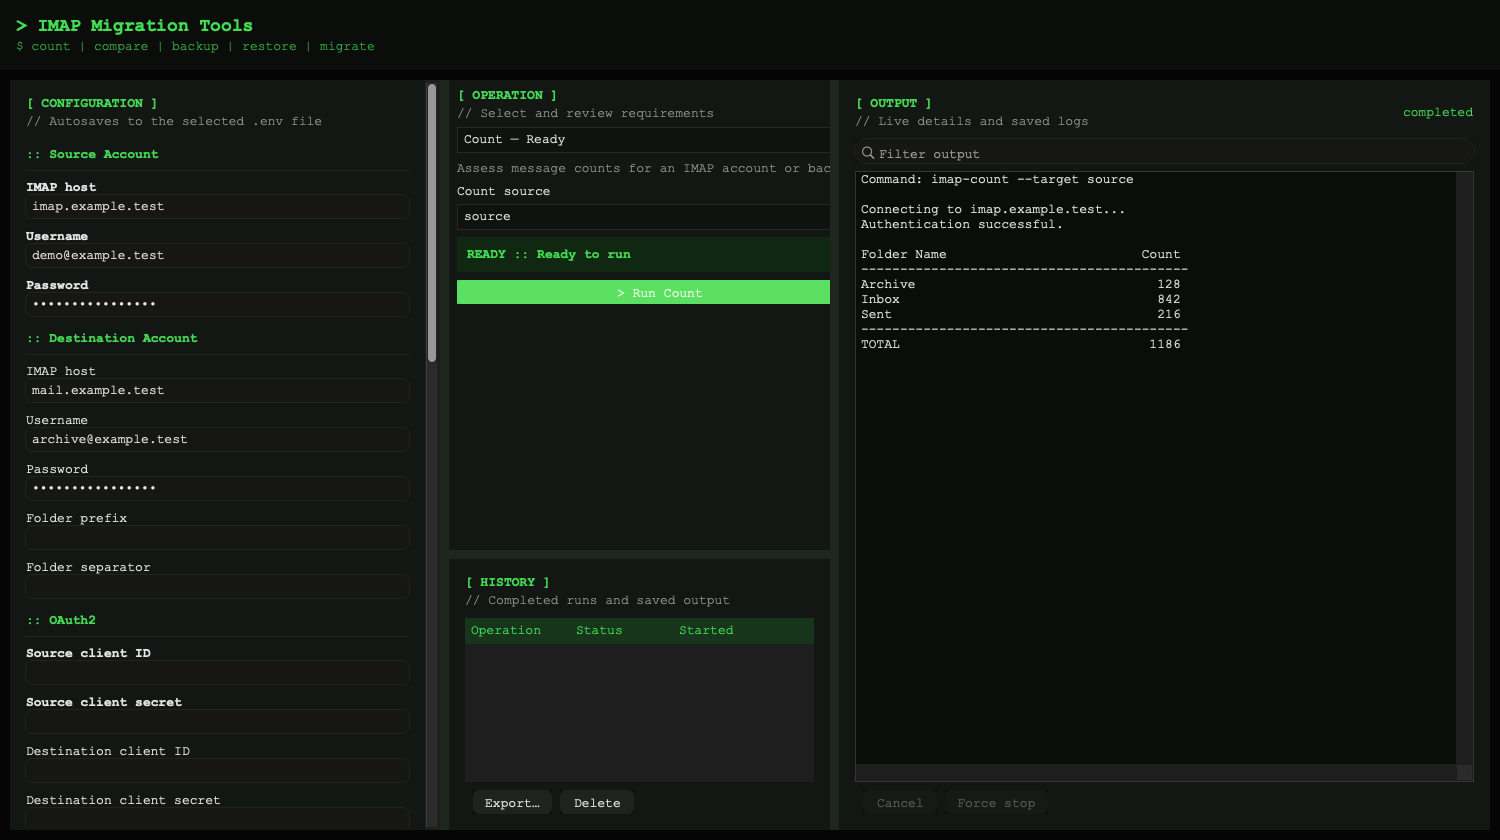
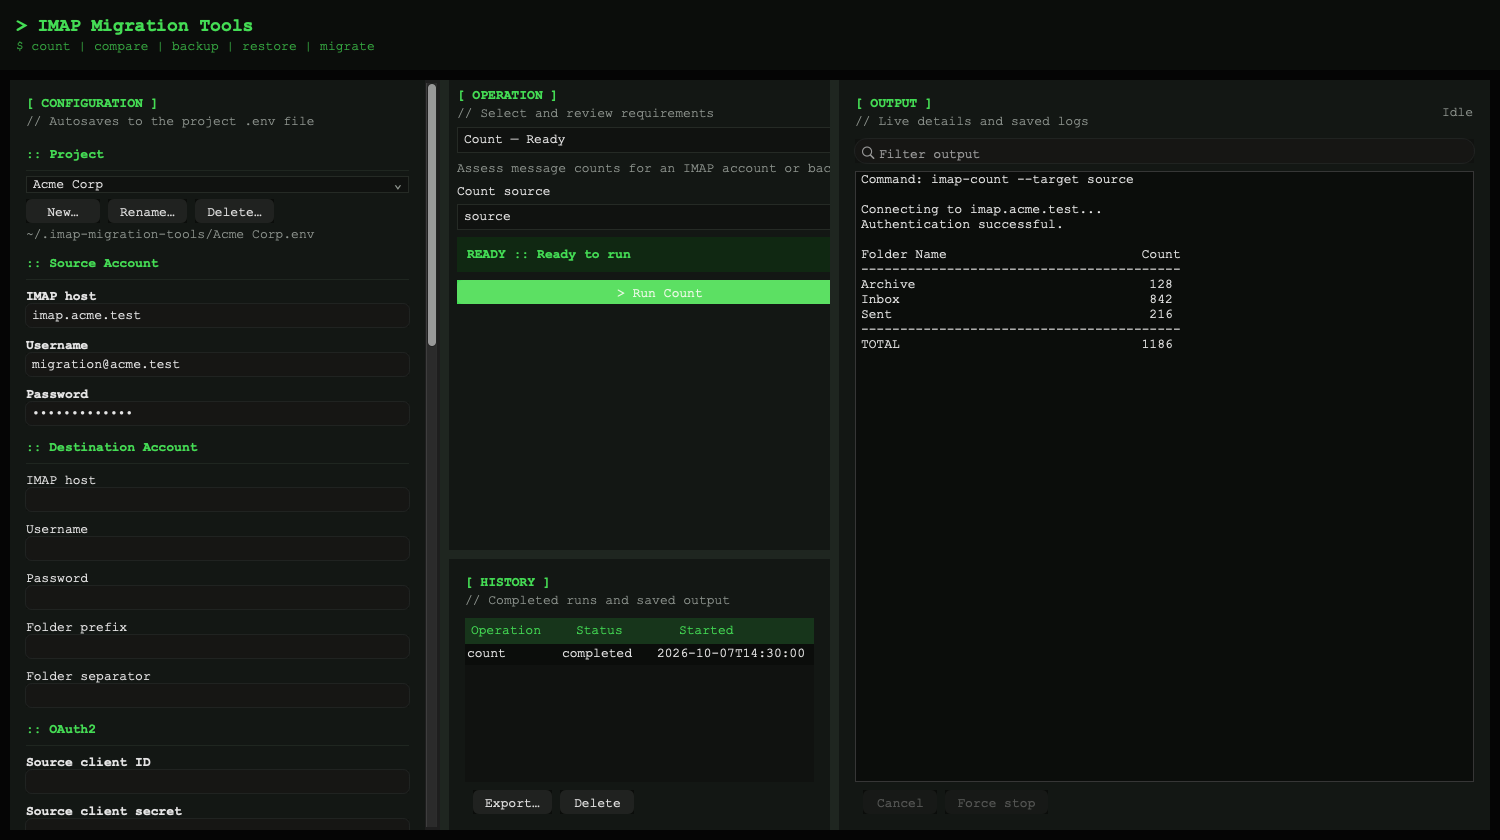
Verify project workflow on macOS

diff --git a/test/gui/test_native_app.py b/test/gui/test_native_app.py
@@ -673,6 +673,26 @@ def test_header_omits_configuration_filename_and_view_uses_submenus(workspace):
     ]
 
 
+@pytest.mark.skipif(wx.Platform != "__WXMAC__", reason="Cocoa-only native menu integration")
+def test_macos_project_menu_uses_the_native_menu_bar(workspace):
+    assert workspace.app_menu_bar is None
+    menu_bar = workspace.GetMenuBar()
+    assert [menu_bar.GetMenuLabel(index).replace("&", "") for index in range(menu_bar.GetMenuCount())] == [
+        "File",
+        "Project",
+        "Operations",
+        "View",
+        "Help",
+    ]
+    project_menu = menu_bar.GetMenu(menu_bar.FindMenu("Project"))
+    assert [item.GetItemLabelText() for item in project_menu.GetMenuItems() if not item.IsSeparator()] == [
+        "Choose project",
+        "New project…",
+        "Rename project…",
+        "Delete project…",
+    ]
+
+
 def test_help_menu_uses_structured_information_dialogs(workspace):
     menu_bar = workspace.app_menu_bar or workspace.GetMenuBar()
     help_menu = menu_bar.GetMenu(menu_bar.FindMenu("Help"))
@@ -689,6 +709,7 @@ def test_help_menu_uses_structured_information_dialogs(workspace):
             "Review history",
             "Adjust the workspace",
         ]
+        assert ("Alt+P", "Focus the project selector") in dialogs[1].shortcut_rows
         assert ("Ctrl/Cmd+=", "Zoom in") in dialogs[1].shortcut_rows
         assert "Version" in dialogs[2].section_titles
         assert "License" in dialogs[2].section_titles
@@ -1308,6 +1329,21 @@ def test_switching_projects_reloads_the_complete_form_without_merging(project_wo
     assert started[0].environment["IMAP_TOOLS_ENV_FILE"] == str(acme.path.resolve())
     assert scopes == [acme.history_key]
     assert "default-secret" not in acme.path.read_text(encoding="utf-8")
+
+
+def test_project_menu_shortcut_focuses_the_selector(project_workspace, monkeypatch):
+    frame, _store, _acme = project_workspace
+    focused = []
+    revealed = []
+    monkeypatch.setattr(frame.project_choice, "SetFocus", lambda: focused.append(True))
+    monkeypatch.setattr(frame.config_panel, "ScrollChildIntoView", lambda control: revealed.append(control))
+
+    event = wx.CommandEvent(wx.EVT_MENU.typeId, frame.choose_project_item.GetId())
+    event.SetEventObject(frame.choose_project_item)
+    assert frame.GetEventHandler().ProcessEvent(event)
+
+    assert focused == [True]
+    assert revealed == [frame.project_choice]
 
 
 def test_pending_edit_is_saved_to_the_previous_project_and_invalid_edits_block_switching(project_workspace):

diff --git a/src/gui/app.py b/src/gui/app.py
@@ -396,6 +396,7 @@ KEYBOARD_SECTIONS = (
     (
         "Workspace",
         (
+            ("Alt+P", "Focus the project selector"),
             ("Tab / Shift+Tab", "Move focus forward or backward"),
             ("Enter / Space", "Activate the focused control"),
             ("Alt+0", "Reset the panel layout"),
@@ -849,6 +850,8 @@ class Workspace(wx.Frame):
         self._menu_action(file_menu, "Quit\tCtrl+Q", self.Close, wx.ID_EXIT)
         bar.Append(file_menu, "&File")
         project_menu = menu_type()
+        self.choose_project_item = self._menu_action(project_menu, "Choose project\tAlt+P", self.focus_project_selector)
+        project_menu.AppendSeparator()
         self._menu_action(project_menu, "New project…", lambda: self.request_project_name("new"))
         self.rename_project_item = self._menu_action(
             project_menu, "Rename project…", lambda: self.request_project_name("rename")
@@ -922,6 +925,11 @@ class Workspace(wx.Frame):
 
     def show_about(self):
         self._show_information(AboutDialog)
+
+    def focus_project_selector(self):
+        """Reveal and focus the project selector for keyboard selection."""
+        self.config_panel.ScrollChildIntoView(self.project_choice)
+        self.project_choice.SetFocus()
 
     def transparency_supported(self):
         """Return whether the current window manager supports native opacity."""

diff --git a/test/ui/test_projects.py b/test/ui/test_projects.py
@@ -270,7 +270,7 @@ def test_move_reports_link_races_and_unexpected_errors(tmp_path, monkeypatch):
 def test_remembered_project_ignores_a_windows_byte_order_mark(tmp_path):
     store = ProjectStore(tmp_path)
     store.create("Acme Corp")
-    (tmp_path / ".active-project").write_bytes("\ufeffAcme Corp\r\n".encode("utf-8"))
+    (tmp_path / ".active-project").write_bytes("\ufeffAcme Corp\r\n".encode())
 
     assert store.remembered() == "Acme Corp"
     assert store.initial().name == "Acme Corp"

diff --git a/docs/backlog.md b/docs/backlog.md
@@ -3,16 +3,14 @@
 This backlog records planned cross-interface work which is intentionally outside the current Android implementation.
 It is not a release commitment or an indication that an item is already supported.
 
-## Project support follow-ups
+## Project support follow-up
 
-Projects are implemented for the Textual TUI, the native desktop GUI on Linux and Windows, and Android: a project is one
-`.env` file, `default` is `~/.imap-migration-tools/.env`, named projects are `<name>.env` in the same directory, and a
-discovered `.env` is the `local` project. The remaining work is:
-
-- Verify and, where needed, adapt the desktop GUI project workflow on macOS, including the native menu bar placement of
-  the Project menu and keyboard access to the selector.
-- Add `--project NAME` to the five command-line tools. They already honor `IMAP_TOOLS_ENV_FILE`, which the TUI and GUI
-  use to pin each run to the active project file, and direct `.env` discovery must remain unchanged.
+Projects are implemented for the Textual TUI, the native desktop GUI on Linux, macOS, and Windows, and Android: a
+project is one `.env` file, `default` is `~/.imap-migration-tools/.env`, named projects are `<name>.env` in the same
+directory, and a discovered `.env` is the `local` project. The desktop GUI exposes Project in the native macOS menu
+bar and `Alt+P` focuses its selector. The remaining work is to add `--project NAME` to the five command-line tools.
+They already honor `IMAP_TOOLS_ENV_FILE`, which the TUI and GUI use to pin each run to the active project file, and
+direct `.env` discovery must remain unchanged.
 
 ## Project deletion and retained-backup management for the terminal and desktop applications
 

diff --git a/docs/gui.md b/docs/gui.md
@@ -53,8 +53,9 @@ Configuration is organized as projects shared with the terminal interface. The P
 Configuration, and the Project menu, switch among the `default` project (`~/.imap-migration-tools/.env`), named
 projects (`~/.imap-migration-tools/<name>.env`), and a `local` project found from the working directory and its
 parents. Because `default` and named projects live in your home directory, they are available however the application
-is launched. New…, Rename…, and Delete… manage named projects; deletion requires typing `DELETE` and also deletes the project's run
-history. History and Output show only the active project's runs. See
+is launched. Press `Alt+P` to focus the selector, then use the arrow keys to choose a project. New…, Rename…, and
+Delete… manage named projects; deletion requires typing `DELETE` and also deletes the project's run history. History
+and Output show only the active project's runs. See
 [Projects](configuration.md#projects) for the storage layout, migration of existing `.env` files, and recovery.
 
 Choose a project, or open a specific file as the `local` project, at launch:
